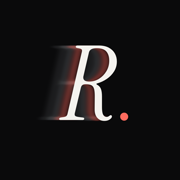
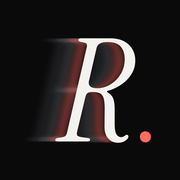
Google Search Console + icône recadrée pour Google

Changed region(s): [[0.1944, 0.1944, 0.7778, 0.8056], [0.7778, 0.7222, 0.8611, 0.8056], [0.6667, 0.6111, 0.7222, 0.6944]]

diff --git a/src/i18n/ui.ts b/src/i18n/ui.ts
@@ -174,7 +174,7 @@ const en = {
       title: "Where should we send your plan?",
       sub: "To find your plan again and tell us each week how it's going.",
       email: "Your email",
-      consent: "I'd like to receive RunFlow news during the beta. Optional, unsubscribe anytime.",
+      consent: "I'd like to receive RunFlow news and tips. Optional, unsubscribe anytime.",
       privacy: "Your answers are only used to create your plan and improve RunFlow. Nothing is sold.",
       privacyLink: "Privacy",
     },
@@ -509,7 +509,7 @@ const fr: UI = {
       title: "Où t'envoyer ton plan ?",
       sub: "Pour retrouver ton plan et nous dire chaque semaine comment ça se passe.",
       email: "Ton email",
-      consent: "J'accepte de recevoir les nouveautés de RunFlow pendant la phase de test. Optionnel, désinscription à tout moment.",
+      consent: "J'accepte de recevoir les nouveautés et conseils de RunFlow. Optionnel, désinscription à tout moment.",
       privacy: "Tes réponses servent uniquement à créer ton plan et à améliorer RunFlow. Rien n'est revendu.",
       privacyLink: "Confidentialité",
     },

diff --git a/src/app/[lang]/layout.tsx b/src/app/[lang]/layout.tsx
@@ -19,6 +19,8 @@ export async function generateMetadata({ params }: LayoutProps<"/[lang]">): Prom
     metadataBase: new URL(BRAND.siteUrl),
     title: t.title,
     description: t.description,
+    // Propriété Google Search Console (balise publique, pas un secret)
+    verification: { google: "5JSyfy90F_l0KgYEa-7dpg0FoSofgrcT87bItWYHZ_Y" },
     openGraph: {
       type: "website",
       siteName: BRAND.name,
